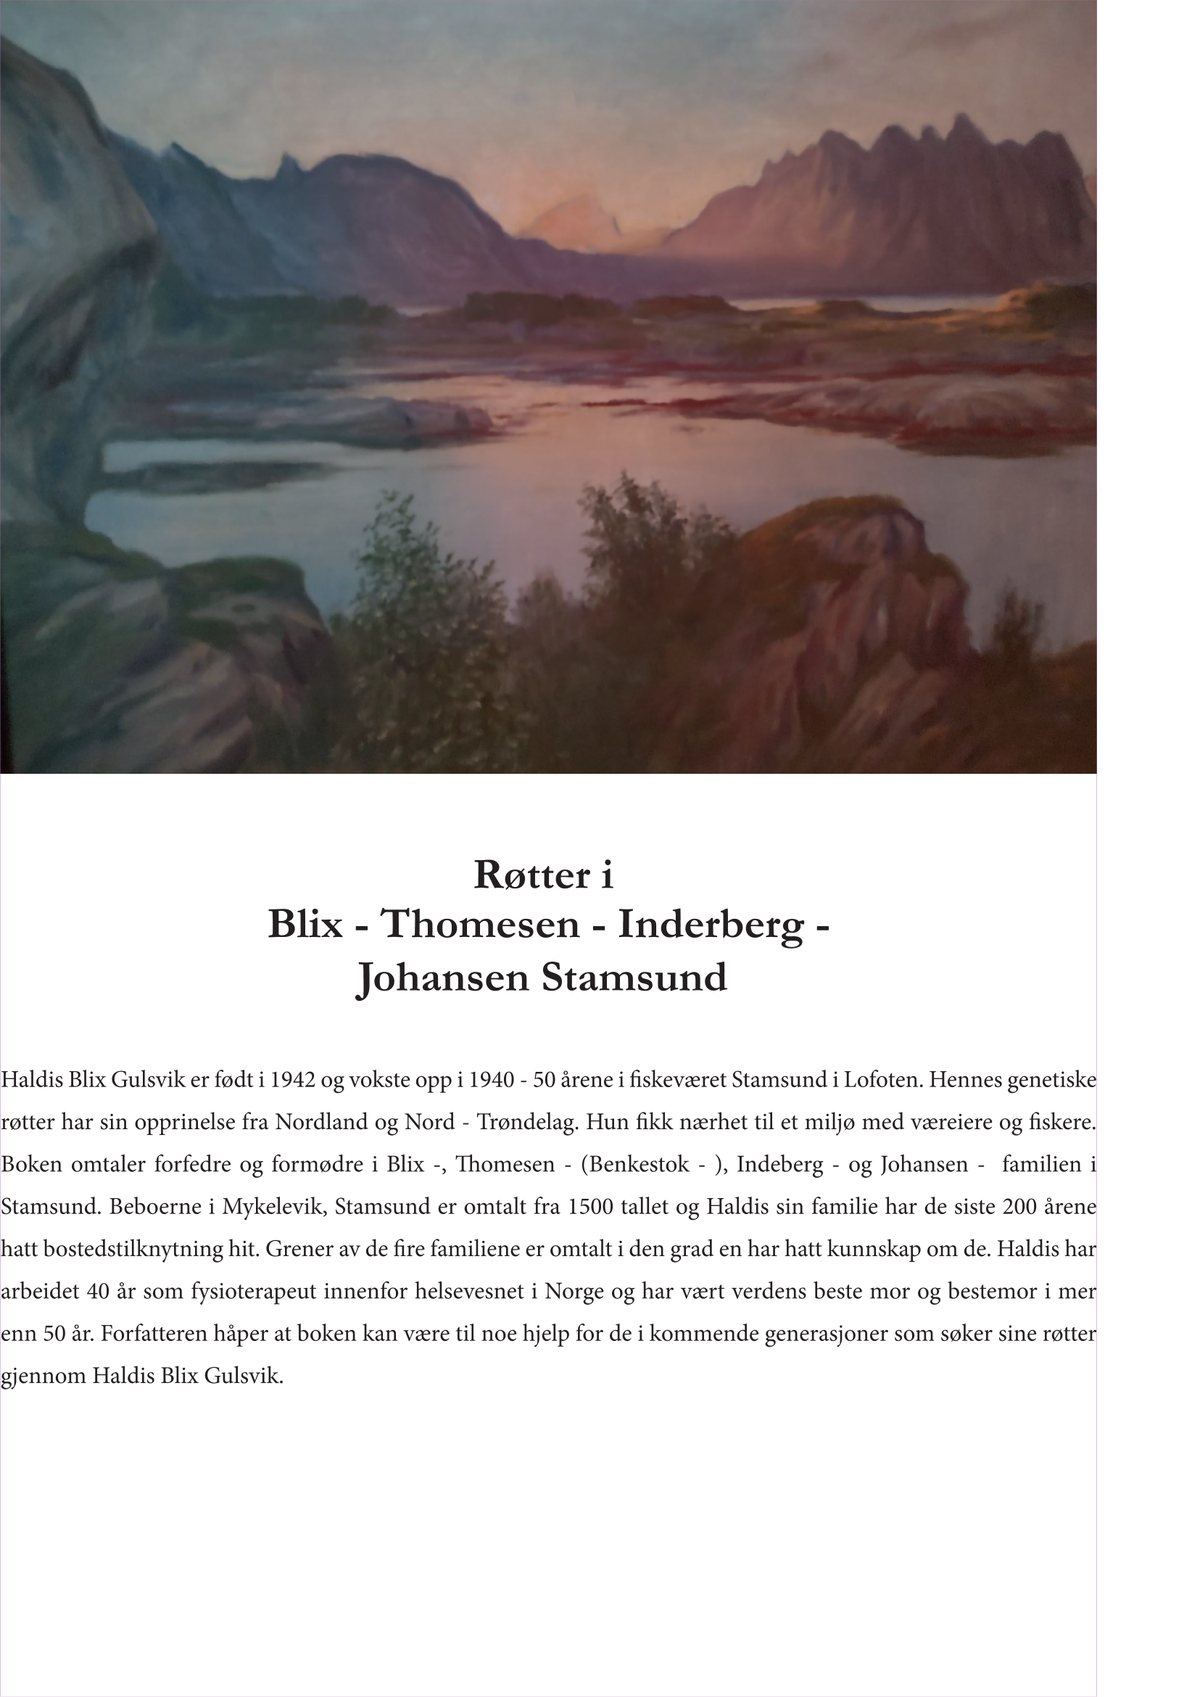
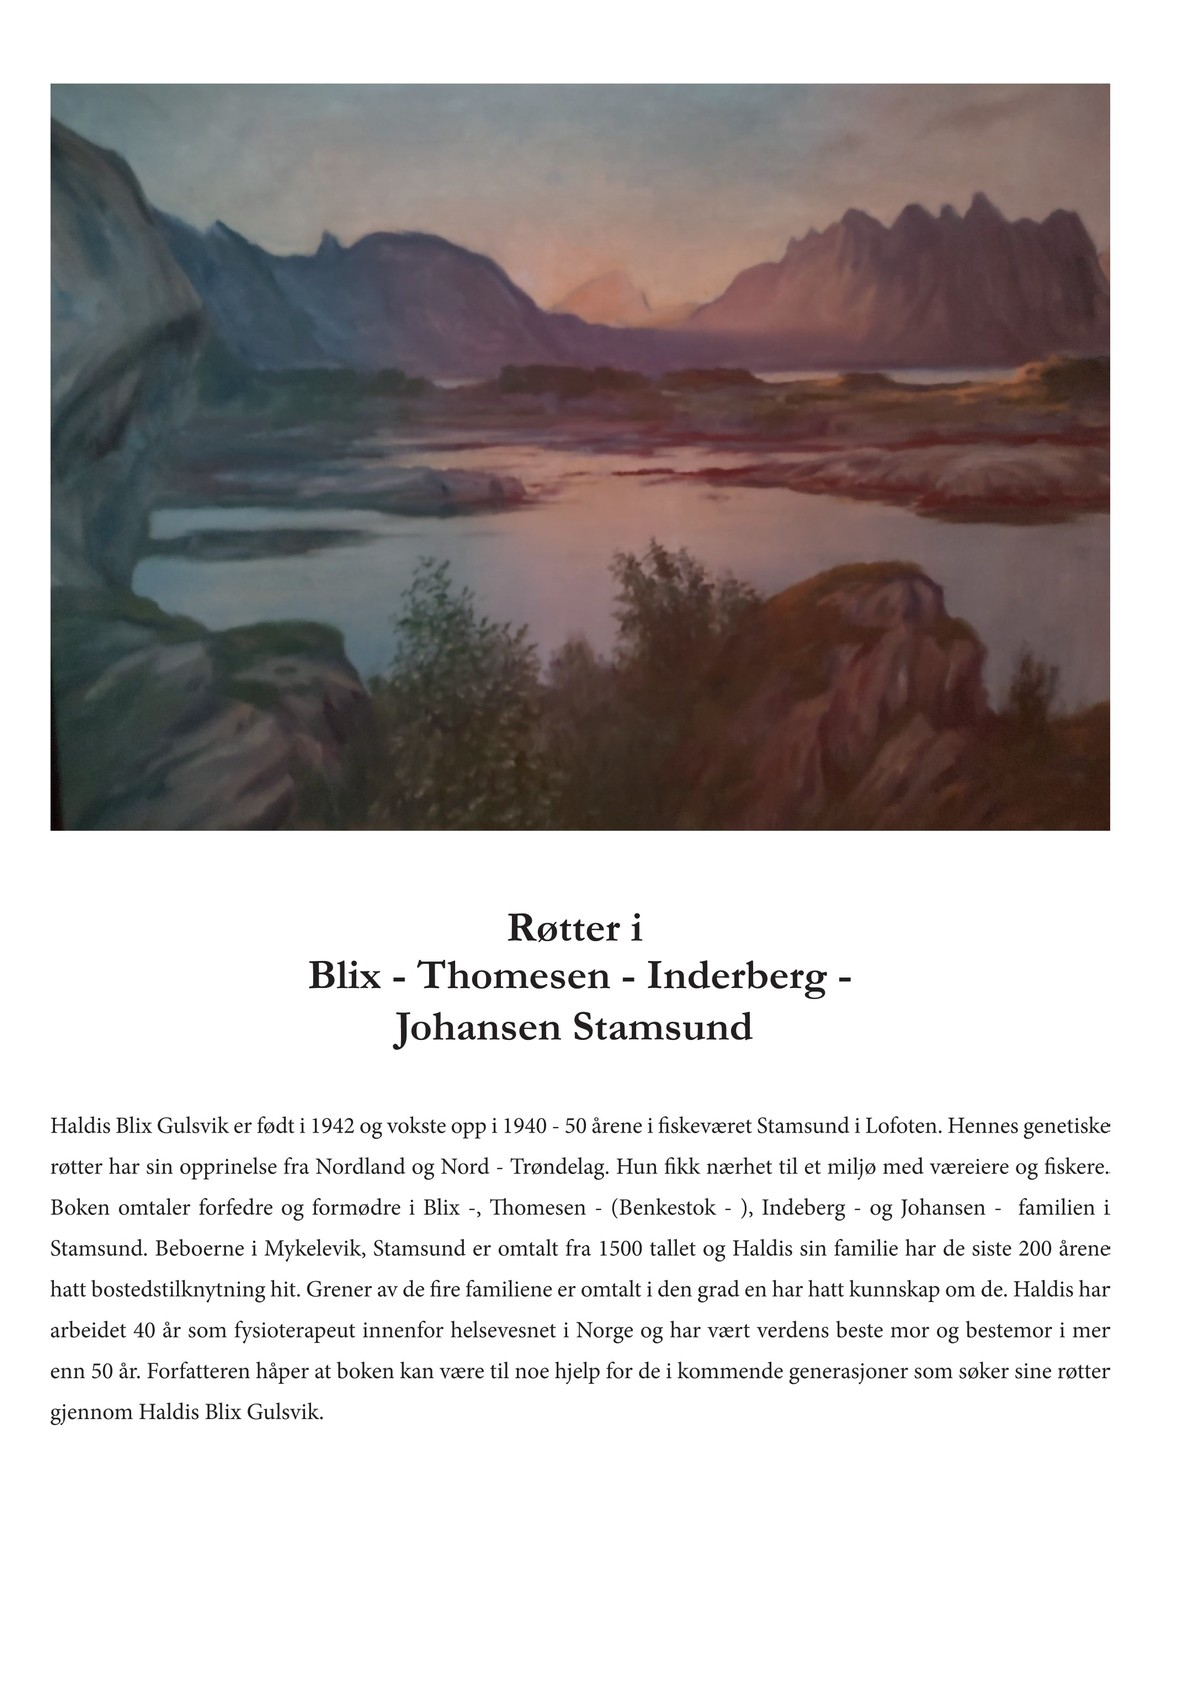
Book page: back cover with print margins, both mockups aligned, spine head fixed
Back cover rebuilt as printed (margins measured from the photo of the printed
book). Standing book and back cover share size, top and base lines. The spine
loses its rounded cap so its head meets the boards. Corner turn-ins and hinge
groove on front and back.

diff --git a/book.html b/book.html
@@ -61,8 +61,8 @@ h1{font-size:clamp(36px,5.6vw,80px);line-height:1.02;letter-spacing:-.045em;max-
 .meta dd{margin:0;font-size:16px}
 
 /* 3D mockup stage */
-.stage{background:var(--stage);position:relative;overflow:hidden;display:grid;grid-template-columns:minmax(0,1.25fr) minmax(0,1fr);align-items:center;justify-items:center;gap:clamp(24px,5vw,80px);padding:clamp(48px,7vw,110px) clamp(24px,5vw,80px)}
-.scene{--w:clamp(180px,24vw,340px);--h:calc(var(--w) * 297 / 210);--d:calc(var(--w) * 34 / 210);perspective:1600px;width:100%;display:flex;justify-content:center;position:relative}
+.stage{--w:clamp(180px,24vw,340px);--h:calc(var(--w) * 297 / 210);--d:calc(var(--w) * 34 / 210);background:var(--stage);position:relative;overflow:hidden;display:grid;grid-template-columns:minmax(0,1.25fr) minmax(0,1fr);align-items:center;justify-items:center;gap:clamp(24px,5vw,80px);padding:clamp(48px,7vw,110px) clamp(24px,5vw,80px)}
+.scene{perspective:1600px;width:100%;display:flex;justify-content:center;position:relative}
 .scene::before{content:"";position:absolute;left:50%;top:50%;width:calc(var(--w) * .95);height:calc(var(--h) * .96);transform:translate(-70%,-48%) skewX(3deg);background:radial-gradient(closest-side,rgba(var(--sh),.42),rgba(var(--sh),.2) 55%,rgba(var(--sh),0));filter:blur(28px);pointer-events:none}
 .b3d{
   position:relative;z-index:1;width:var(--w);height:var(--h);transform-style:preserve-3d;
@@ -70,10 +70,13 @@ h1{font-size:clamp(36px,5.6vw,80px);line-height:1.02;letter-spacing:-.045em;max-
 .face{position:absolute;left:0;top:0;backface-visibility:hidden}
 .face img{width:100%;height:100%;object-fit:cover}
 .front{width:var(--w);height:var(--h);transform:translateZ(calc(var(--d) / 2));border-radius:1px clamp(4px,.7vw,8px) clamp(4px,.7vw,8px) 1px;overflow:hidden}
-.front::after{content:"";position:absolute;inset:0;background:linear-gradient(90deg,rgba(0,0,0,.16) 0,rgba(0,0,0,0) 2.4%,rgba(255,255,255,.4) 3.4%,rgba(0,0,0,.16) 4.3%,rgba(0,0,0,0) 5.6%),linear-gradient(110deg,rgba(0,0,0,.05),rgba(0,0,0,0) 45%,rgba(255,255,255,.1))}
+.front::after{content:"";position:absolute;inset:0;--c:calc(var(--w) * .035);
+  --fold:rgba(var(--sh),0) 44%,rgba(var(--sh),.22) 48.5%,rgba(var(--sh),.32) 50%,rgba(255,255,255,.9) 51.5%,rgba(255,255,255,0) 57%;
+  background:linear-gradient(135deg,var(--fold)) right top / var(--c) var(--c) no-repeat,linear-gradient(45deg,var(--fold)) right bottom / var(--c) var(--c) no-repeat,
+    linear-gradient(90deg,rgba(var(--sh),.18) 0,rgba(var(--sh),0) 2.4%,rgba(255,255,255,.4) 3.4%,rgba(var(--sh),.16) 4.3%,rgba(var(--sh),0) 5.6%),linear-gradient(110deg,rgba(var(--sh),.05),rgba(var(--sh),0) 45%,rgba(255,255,255,.1));
+  box-shadow:inset -1px 0 0 rgba(255,255,255,.7),inset 0 -1px 0 rgba(var(--sh),.08)}
 .back-face{width:var(--w);height:var(--h);transform:rotateY(180deg) translateZ(calc(var(--d) / 2))}
 .spine{width:var(--d);height:var(--h);left:calc(50% - var(--d) / 2);transform:rotateY(-90deg) translateZ(calc(var(--w) / 2));overflow:hidden}
-.spine{border-radius:40% / 2%}
 .spine::after{content:"";position:absolute;inset:0;background:linear-gradient(90deg,rgba(0,0,0,.34),rgba(0,0,0,.1) 30%,rgba(255,255,255,.06) 50%,rgba(0,0,0,.1) 70%,rgba(0,0,0,.36))}
 /* where the standing book meets the ground: a soft grey shade, wider to the left (light from the right) */
 .scene::after{content:"";position:absolute;left:50%;top:calc(50% + var(--h) / 2);width:calc(var(--w) * 1.5);height:calc(var(--w) * .16);transform:translate(-60%,-55%);pointer-events:none;
@@ -84,7 +87,13 @@ h1{font-size:clamp(36px,5.6vw,80px);line-height:1.02;letter-spacing:-.045em;max-
 .top{width:calc(var(--w) - 3px);height:calc(var(--d) - 4px);top:calc(50% - var(--d) / 2 + 2px);
   transform:rotateX(90deg) translateZ(calc(var(--h) / 2 - 3px));
   background:repeating-linear-gradient(0deg,#f7f6f2 0 1px,#e3e1da 1px 2px)}
-.flat{width:min(100%,clamp(170px,20vw,300px));height:auto;border-radius:1px clamp(3px,.6vw,7px) clamp(3px,.6vw,7px) 1px;box-shadow:var(--soft-shadow)}
+.flat{position:relative;width:min(var(--w),100%);aspect-ratio:210/297;border-radius:clamp(4px,.7vw,8px) 1px 1px clamp(4px,.7vw,8px);overflow:hidden;box-shadow:var(--soft-shadow)}
+.flat img{width:100%;height:100%;object-fit:cover}
+.flat::after{content:"";position:absolute;inset:0;pointer-events:none;--c:calc(var(--w) * .035);
+  --fold:rgba(var(--sh),0) 44%,rgba(var(--sh),.22) 48.5%,rgba(var(--sh),.32) 50%,rgba(255,255,255,.9) 51.5%,rgba(255,255,255,0) 57%;
+  background:linear-gradient(45deg,var(--fold)) left top / var(--c) var(--c) no-repeat,linear-gradient(135deg,var(--fold)) left bottom / var(--c) var(--c) no-repeat,
+    linear-gradient(270deg,rgba(var(--sh),.16) 0,rgba(var(--sh),0) 2.4%,rgba(255,255,255,.4) 3.4%,rgba(var(--sh),.14) 4.3%,rgba(var(--sh),0) 5.6%),linear-gradient(250deg,rgba(var(--sh),.04),rgba(var(--sh),0) 45%,rgba(255,255,255,.08));
+  box-shadow:inset 1px 0 0 rgba(255,255,255,.7),inset 0 1px 0 rgba(255,255,255,.8),inset 0 -1px 0 rgba(var(--sh),.08)}
 .stage figcaption{grid-column:1/-1;justify-self:start;font-size:14px;color:var(--muted)}
 @media (hover:hover){.scene:hover .b3d{transform:rotateX(4deg) rotateY(20deg)}}
 @media (prefers-reduced-motion:reduce){.b3d{transition:none}.scene:hover .b3d{transform:rotateX(6deg) rotateY(30deg)}}
@@ -180,7 +189,7 @@ footer .wrap{display:flex;justify-content:space-between;gap:16px;flex-wrap:wrap}
           <div class="face back-face"><img src="assets/work/book/cover-back.jpg" alt="" width="1200" height="1697"></div>
         </div>
       </div>
-      <img class="flat" src="assets/work/book/cover-back.jpg" alt="Back cover: a painting of a Lofoten landscape above the title and a short text about Haldis Blix Gulsvik and the families." width="1200" height="1697" loading="lazy">
+      <div class="flat"><img src="assets/work/book/cover-back.jpg" alt="Back cover: a painting of a Lofoten landscape above the title and a short text about Haldis Blix Gulsvik and the families." width="1200" height="1697" loading="lazy"></div>
       <figcaption>Cover, spine and back, built from the print file. 210 × 297 mm, 34 mm spine.</figcaption>
     </figure>
   </div>

diff --git a/book.md b/book.md
@@ -31,7 +31,8 @@ Sources: the print files (`omslag_34_18.pdf`, `Slekstbok_Røtter i Blix_for utsk
 Built in CSS from her own cover file, no stock mockup: front, spine and back panels are cut from `omslag_34_18.pdf` at its fold marks — back 43.4–253.4 mm, hinge, spine 263.6–297.4 mm (34 mm), hinge, front 307.4–517.4 mm; height 43.4–340.4 mm (18 mm turn-in). Files in `assets/work/book/`: `cover-front.jpg`, `cover-spine.jpg`, `cover-back.jpg`.
 - **Reference:** her photos of the printed book (2026-09-26, Notion *For Portfolio* → "Book mockup: the real hardcover"): matte white case binding, rounded spine with a hinge groove, boards overhanging the page block, a sewn block that curves into the gutter.
 - **Light and shadow (2026-09-28):** light from the right on every mockup, as in the landing render. Shadows are dark grey (#4a4a46), never black, and fade out smoothly into the ground: the spreads and the back cover use six stacked shadow layers of growing blur and falling opacity, offset to the left; the standing cover has a soft grey shade on the backdrop to its left and a soft ground shade where it stands (no hard floor line).
-- **Project page:** one closed book, turned three-quarters to show the front and the spine, on a pale well; hinge groove on the front, rounded spine, shadow on the backdrop to the left; the back cover beside it.
+- **Project page:** one closed book standing, turned three-quarters to show the front and the spine (CSS 3D, it turns a little under the pointer, so it may stand at an angle), and the back cover beside it. Both are the same size and share the top and base lines. The spine has no rounded cap, so its head lines up with the boards. Front and back have rounded fore corners with the corner turn-ins as diagonal folds, the hinge groove by the spine and light catching the board edge; soft grey shadows as on the spreads.
+- **Back cover (2026-09-28):** laid out as printed, not as cut at the fold marks. On the printed book the design sits on the board with margins: the painting about 8.8 mm from the fore edge and 14.6 mm from the head, the whole back at 96.6 % (measured from her photo of the printed back). `cover-back.jpg` is rebuilt that way from the print file; in `omslag_34_18.pdf` the painting starts right at the panel edge, which left no margin on the left and top.
 - **Work-list thumbnail (since 2026-09-28):** one hardcover lying face up, seen almost from above, thickness showing on the right (fore edge) and bottom (tail); references in Notion *For Portfolio* → "Book thumbnail: one book, lying face up" and "Book render: hinge shadow and corner turn-ins". Rendered offline in three.js ([`tools/book-render/render.html`](tools/book-render/render.html)), not CSS. The cover texture is the print file itself (`omslag_34_18.pdf` at 10 px/mm → `tools/book-render/cover-wrap.jpg`, InDesign frame hairlines removed), laid on the case by arc length at the print measures: front 307.4–517.4 mm, a 10 mm hinge, the 34 mm spine; past the fore edge and the head and tail the 18 mm turn-in continues, so the cover art wraps round the board edge instead of stopping at it. Case: 2.8 mm boards with rounded edges and corners, 3 mm squares, a wide soft hinge groove, a rounded spine; fore corners rounded in plan (2.6 mm) and a little thicker where the turn-ins overlap, with a diagonal fold across the board edge and a mitre inside; a slightly concave page block with fine page lines; matte laminate grain. The book rests on the table (no gap). The camera looks straight down, so the book stays a true rectangle; the frame is shifted like a shift lens, and the offset camera position still shows the fore edge and the tail. Light: a large softbox on the right plus open sky, 128 passes with the light moved across that area and averaged, so the shadow falls left and fades out smoothly into the ground; shadows are dark grey (#4a4a46), not black, with only a soft contact shade and no dark line along the edges; light bounced from the pale table onto the edges that face down (references in Notion → "Book render: thick corner and natural soft shadows"). Output `assets/work/book/book-mockup.webp`, 1600 × 1200, transparent, rendered at 2400 × 1800 and downscaled (3200 × 2400 with 128 passes runs out of GPU memory in the headless browser). To re-render: `npm install` in the tool folder, serve the repo root, open `/tools/book-render/render.html?w=2400&h=1800`, save the canvas (`decode.py`, `crops.py` help check details).
 - **Spreads:** each spread sits on the white cover board, which shows around the pages as the square. Page edges stack at the outer sides and the tail, thicker on the side that holds more pages (left share = first page ÷ 432); they read through light and shade, lighter by the page and a little deeper toward the board, with the leaves only hinted, not drawn as lines. The pages curve down into a sewn gutter: the top and bottom edges dip toward the spine, the gutter shade is soft, wide and light grey, with a soft crease shade instead of a drawn line: blurred so it has no hard edge and melts into the white, slightly wavy, a little denser at the stitches of the sewn signatures and more diffuse between them (photo of the printed spread, 2026-09-28) (as on the photo of the printed spread, 2026-09-28), a little stronger on the right page, which faces away from the light. The board has rounded corners with light catching its edge, and at each of the four corners the turn-in shows as a diagonal fold (a thin shade with a light edge beside it); the standing cover and the back cover have the same rounded fore corners.
 
